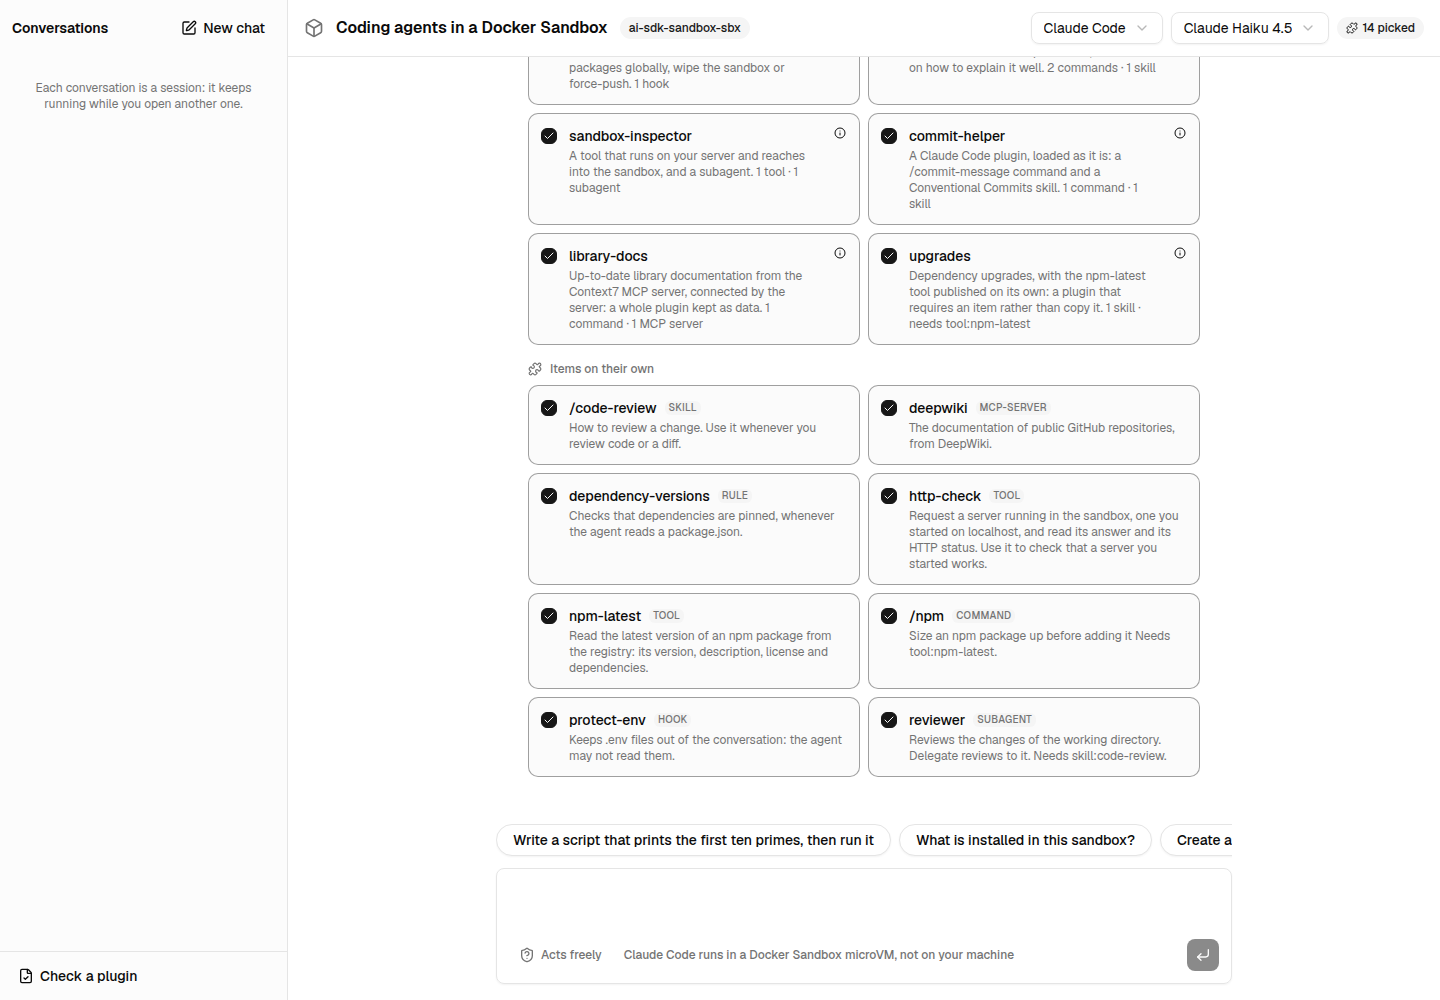
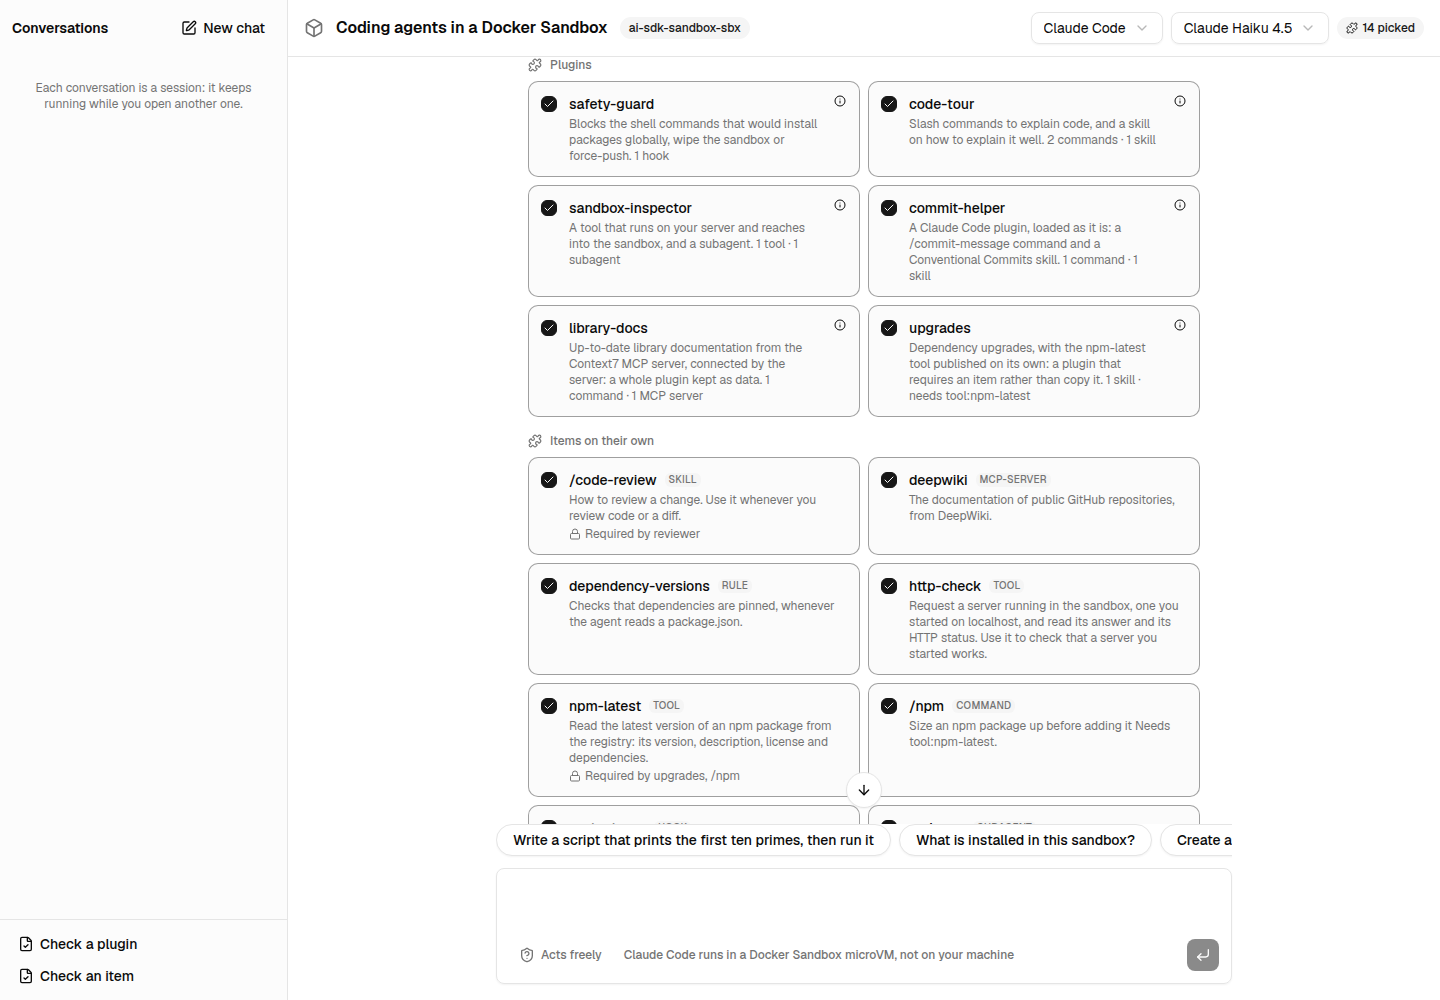
docs(example): screenshot the gallery of coding agents
The screenshot script captures the gallery of a new conversation as
harnesses.png, shown in the example's README, then scrolls to the
marketplace before empty.png: the conversation sticks to its bottom, and
the gallery pushed the marketplace below the fold.

Changed region(s): [[0.3438, 0.062, 0.8438, 0.806], [0.0, 0.93, 0.0938, 0.992]]

diff --git a/scripts/generate-screenshots.ts b/scripts/generate-screenshots.ts
@@ -27,7 +27,7 @@
  * CODEX_PROMPT. The conversations run in a throwaway sandbox, removed at the end; the template
  * image it starts from is kept.
  */
-import type { Browser, Page } from 'playwright-core';
+import type { Browser, Locator, Page } from 'playwright-core';
 
 import { type ChildProcess, spawn, spawnSync } from 'node:child_process';
 import { mkdirSync, mkdtempSync, rmSync, writeFileSync } from 'node:fs';
@@ -250,8 +250,17 @@ async function captureUseCases(page: Page): Promise<void> {
   }
 }
 
-/** The marketplace of a new conversation, then what a plugin holds: its items, and those linked. */
+/**
+ * The coding agents a new conversation picks from, its marketplace, then what a plugin holds: its
+ * items, and those linked.
+ */
 async function captureMarketplace(page: Page): Promise<void> {
+  // The conversation sticks to its bottom: each part is brought into view first.
+  const show = (part: Locator) =>
+    part.evaluate((element) => element.scrollIntoView({ block: 'start' }));
+  await show(page.getByRole('heading', { name: /is ready$/ }));
+  await capture(page, 'harnesses');
+  await show(page.getByRole('region', { name: 'Marketplace' }));
   await capture(page, 'empty');
   await page.getByRole('button', { name: 'What upgrades holds' }).click();
   await page.getByRole('dialog').waitFor();

diff --git a/examples/next-chat/README.md b/examples/next-chat/README.md
@@ -27,6 +27,8 @@ Pick the coding agent, its model and what it takes from the **marketplace** befo
 
 They all share the one sandbox, and the conversations of different agents run side by side. What sets them apart shows on their cards: the approval policy is offered to the agents that can ask before their own commands and edits (Claude Code, OpenCode, Pi, Cline, fx), and Deep Agents forgets the conversation once it is suspended, since its memory lives in its bridge; the files stay.
 
+![The coding agents of a new conversation: Claude Code picked, those without a credential greyed out with the variables to set](../../docs/public/screenshots/next-chat/harnesses.png)
+
 ![Codex answering in the example, after editing and running a file in the sandbox](../../docs/public/screenshots/next-chat/codex.png)
 
 ## Run it
